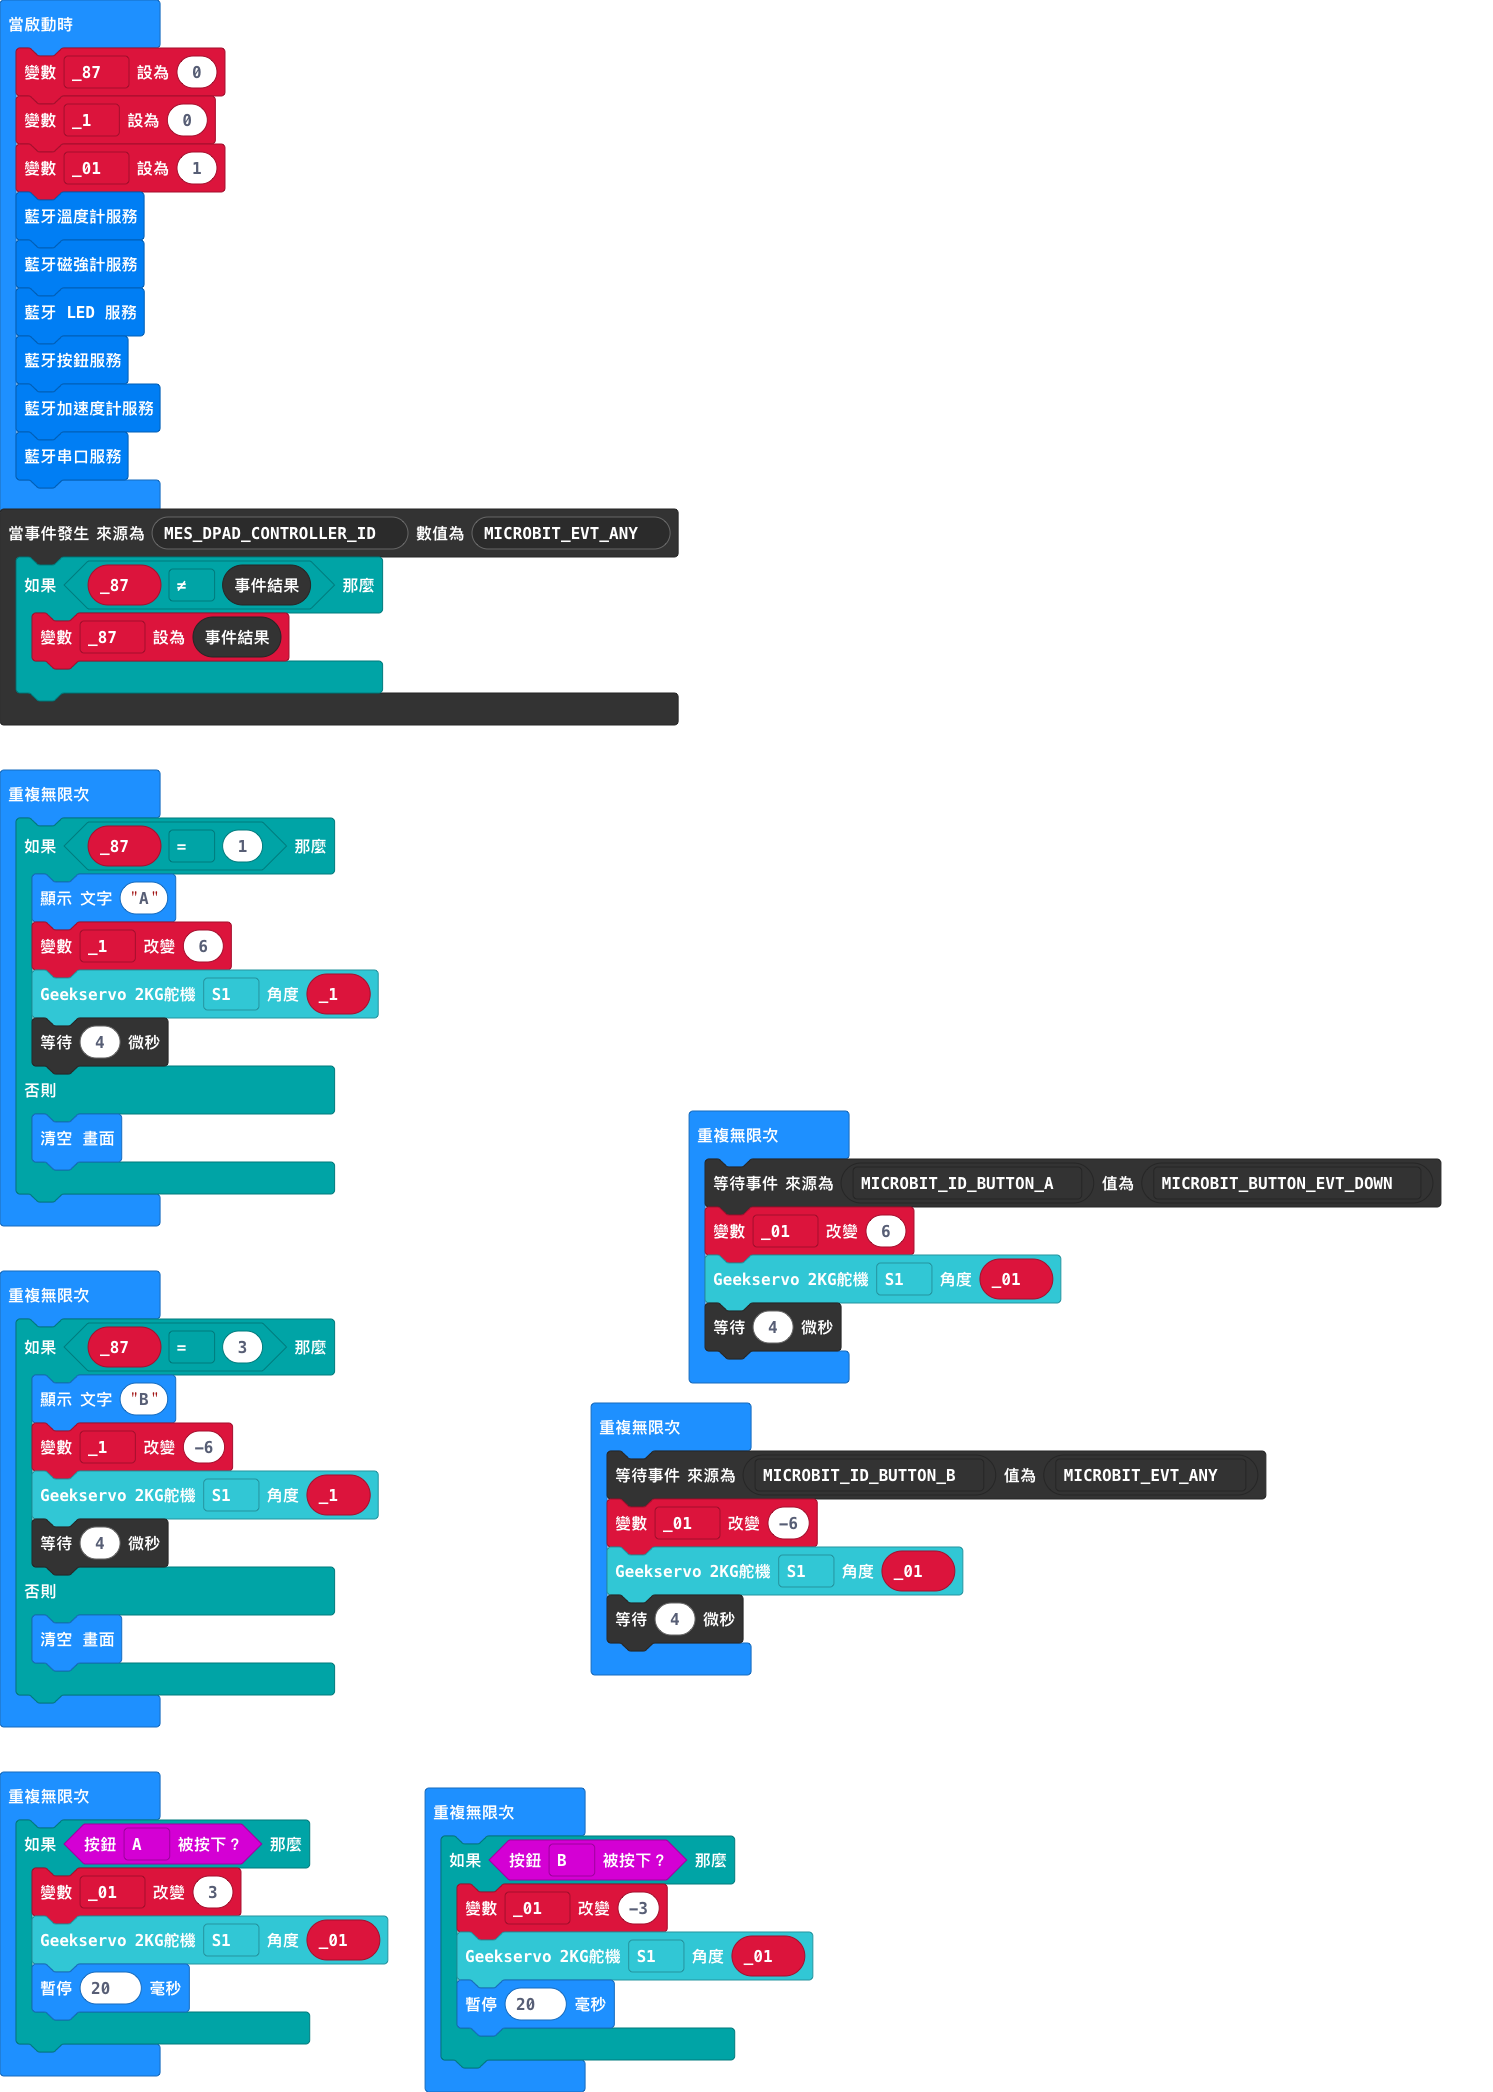
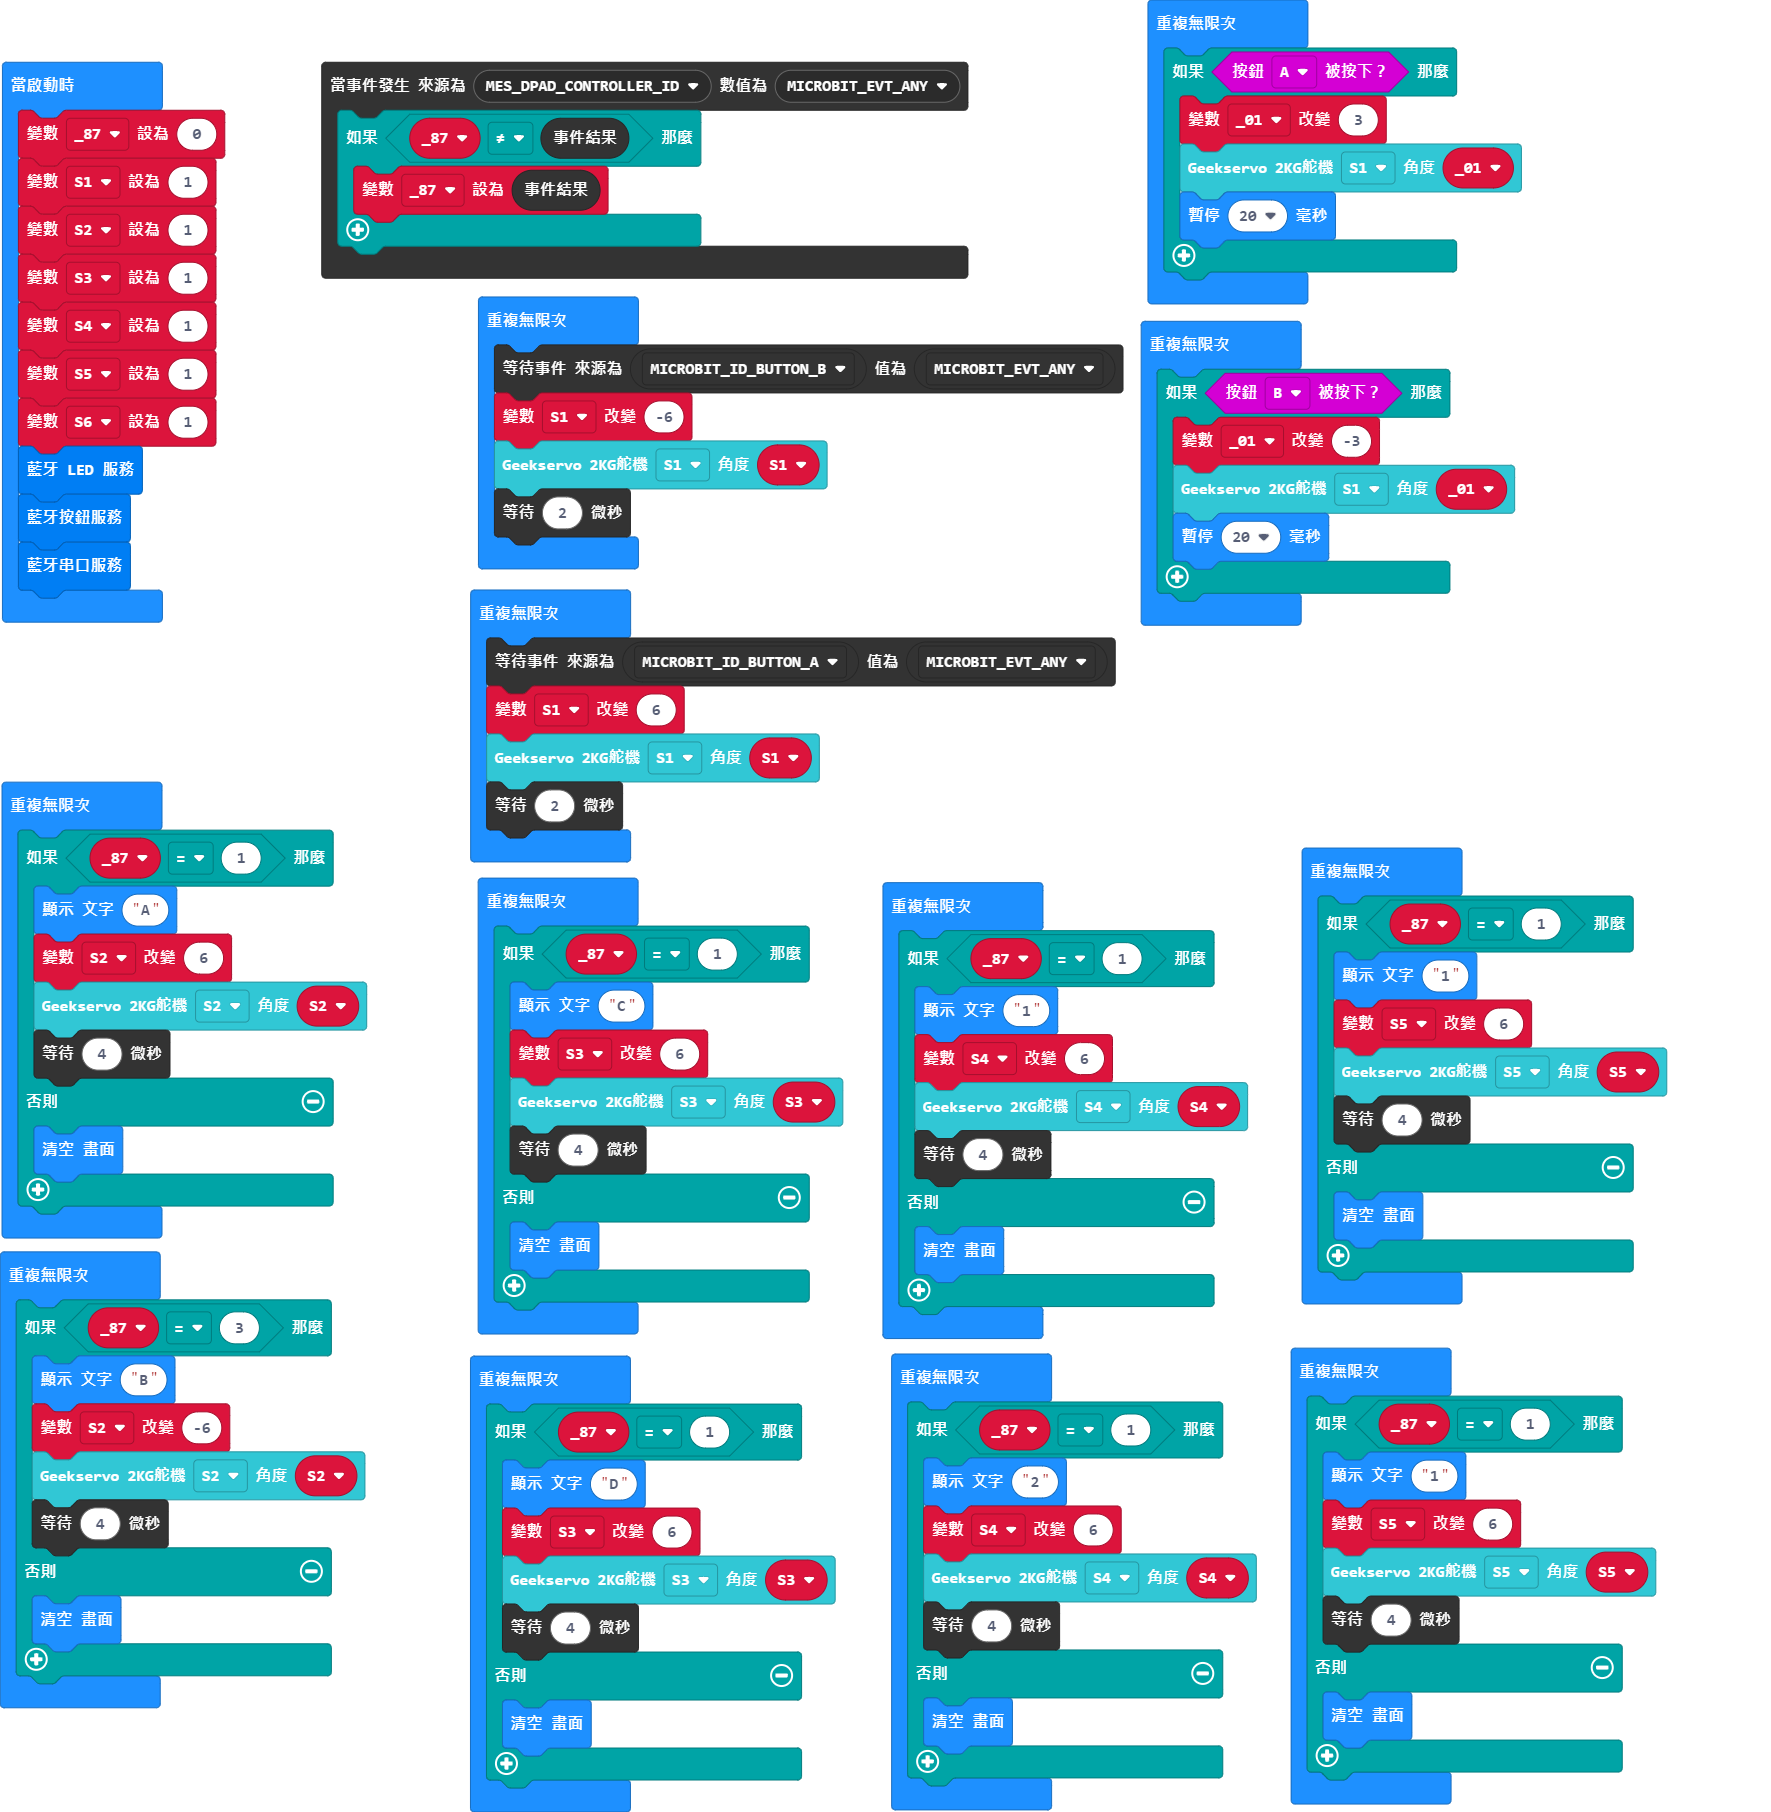
更新 main.blocks, main.ts

diff --git a/main.ts b/main.ts
@@ -3,48 +3,18 @@ control.onEvent(EventBusSource.MES_DPAD_CONTROLLER_ID, EventBusValue.MICROBIT_EV
         _87 = control.eventValue()
     }
 })
+let _01 = 0
 let _87 = 0
 _87 = 0
-let _1 = 0
-let _01 = 1
-bluetooth.startTemperatureService()
-bluetooth.startMagnetometerService()
+let S1 = 1
+let S2 = 1
+let S3 = 1
+let S4 = 1
+let S5 = 1
+let S6 = 1
 bluetooth.startLEDService()
 bluetooth.startButtonService()
-bluetooth.startAccelerometerService()
 bluetooth.startUartService()
-basic.forever(function () {
-    if (_87 == 1) {
-        basic.showString("A")
-        _1 += 6
-        robotbit.GeekServo2KG(robotbit.Servos.S1, _1)
-        control.waitMicros(4)
-    } else {
-        basic.clearScreen()
-    }
-})
-basic.forever(function () {
-    control.waitForEvent(EventBusSource.MICROBIT_ID_BUTTON_A, EventBusValue.MICROBIT_BUTTON_EVT_DOWN)
-    _01 += 6
-    robotbit.GeekServo2KG(robotbit.Servos.S1, _01)
-    control.waitMicros(4)
-})
-basic.forever(function () {
-    if (_87 == 3) {
-        basic.showString("B")
-        _1 += -6
-        robotbit.GeekServo2KG(robotbit.Servos.S1, _1)
-        control.waitMicros(4)
-    } else {
-        basic.clearScreen()
-    }
-})
-basic.forever(function () {
-    control.waitForEvent(EventBusSource.MICROBIT_ID_BUTTON_B, EventBusValue.MICROBIT_EVT_ANY)
-    _01 += -6
-    robotbit.GeekServo2KG(robotbit.Servos.S1, _01)
-    control.waitMicros(4)
-})
 basic.forever(function () {
     if (input.buttonIsPressed(Button.A)) {
         _01 += 3
@@ -53,9 +23,101 @@ basic.forever(function () {
     }
 })
 basic.forever(function () {
+    control.waitForEvent(EventBusSource.MICROBIT_ID_BUTTON_B, EventBusValue.MICROBIT_EVT_ANY)
+    S1 += -6
+    robotbit.GeekServo2KG(robotbit.Servos.S1, S1)
+    control.waitMicros(2)
+})
+basic.forever(function () {
     if (input.buttonIsPressed(Button.B)) {
         _01 += -3
         robotbit.GeekServo2KG(robotbit.Servos.S1, _01)
         basic.pause(20)
+    }
+})
+basic.forever(function () {
+    control.waitForEvent(EventBusSource.MICROBIT_ID_BUTTON_A, EventBusValue.MICROBIT_EVT_ANY)
+    S1 += 6
+    robotbit.GeekServo2KG(robotbit.Servos.S1, S1)
+    control.waitMicros(2)
+})
+basic.forever(function () {
+    if (_87 == 1) {
+        basic.showString("A")
+        S2 += 6
+        robotbit.GeekServo2KG(robotbit.Servos.S2, S2)
+        control.waitMicros(4)
+    } else {
+        basic.clearScreen()
+    }
+})
+basic.forever(function () {
+    if (_87 == 1) {
+        basic.showString("C")
+        S3 += 6
+        robotbit.GeekServo2KG(robotbit.Servos.S3, S3)
+        control.waitMicros(4)
+    } else {
+        basic.clearScreen()
+    }
+})
+basic.forever(function () {
+    if (_87 == 1) {
+        basic.showString("1")
+        S5 += 6
+        robotbit.GeekServo2KG(robotbit.Servos.S5, S5)
+        control.waitMicros(4)
+    } else {
+        basic.clearScreen()
+    }
+})
+basic.forever(function () {
+    if (_87 == 1) {
+        basic.showString("1")
+        S4 += 6
+        robotbit.GeekServo2KG(robotbit.Servos.S4, S4)
+        control.waitMicros(4)
+    } else {
+        basic.clearScreen()
+    }
+})
+basic.forever(function () {
+    if (_87 == 3) {
+        basic.showString("B")
+        S2 += -6
+        robotbit.GeekServo2KG(robotbit.Servos.S2, S2)
+        control.waitMicros(4)
+    } else {
+        basic.clearScreen()
+    }
+})
+basic.forever(function () {
+    if (_87 == 1) {
+        basic.showString("D")
+        S3 += 6
+        robotbit.GeekServo2KG(robotbit.Servos.S3, S3)
+        control.waitMicros(4)
+    } else {
+        basic.clearScreen()
+    }
+})
+basic.forever(function () {
+    if (_87 == 1) {
+        basic.showString("2")
+        S4 += 6
+        robotbit.GeekServo2KG(robotbit.Servos.S4, S4)
+        control.waitMicros(4)
+    } else {
+        basic.clearScreen()
+    }
+})
+basic.forever(function () {
+    if (_87 == 1) {
+        basic.showString("1")
+        S5 += 6
+        robotbit.GeekServo2KG(robotbit.Servos.S5, S5)
+        control.waitMicros(4)
+    } else {
+        basic.clearScreen()
     }
 })
